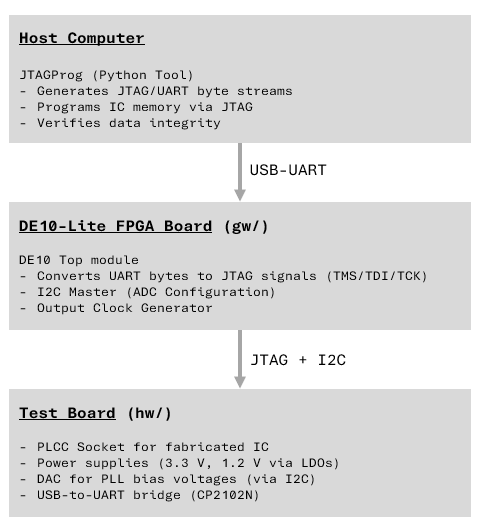
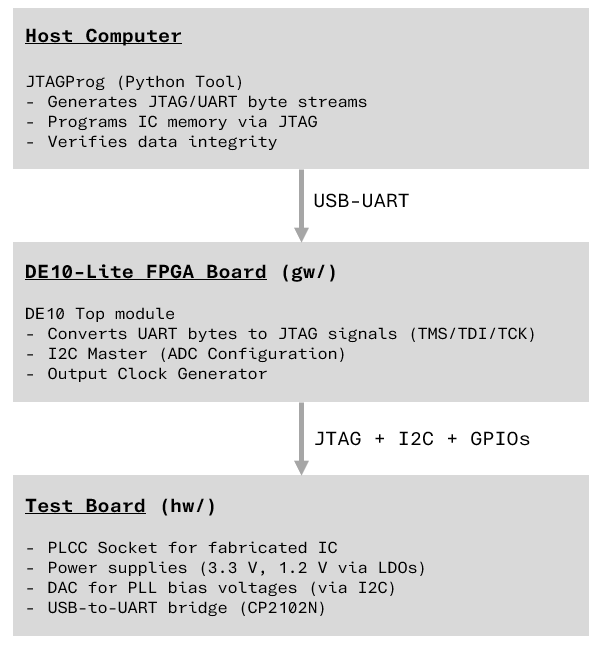
minor additions

Changed region(s): [[0.0, 0.0, 0.9836, 0.6316], [0.0, 0.6015, 0.9836, 0.9925]]

diff --git a/gw/README.md b/gw/README.md
@@ -85,6 +85,8 @@ set_location_assignment PIN_Y5 -to clk_out
 
 All pin IO Standard must be configured on `3.3-V LVTTL`.
 
+Mapping of pins between FPGA and IC can be found in the board [schematic](../hw/schematic.pdf)
+
 ## Testing the JTAG Interface
 
 To test the JTAG functionality with a simulated IC memory model:
